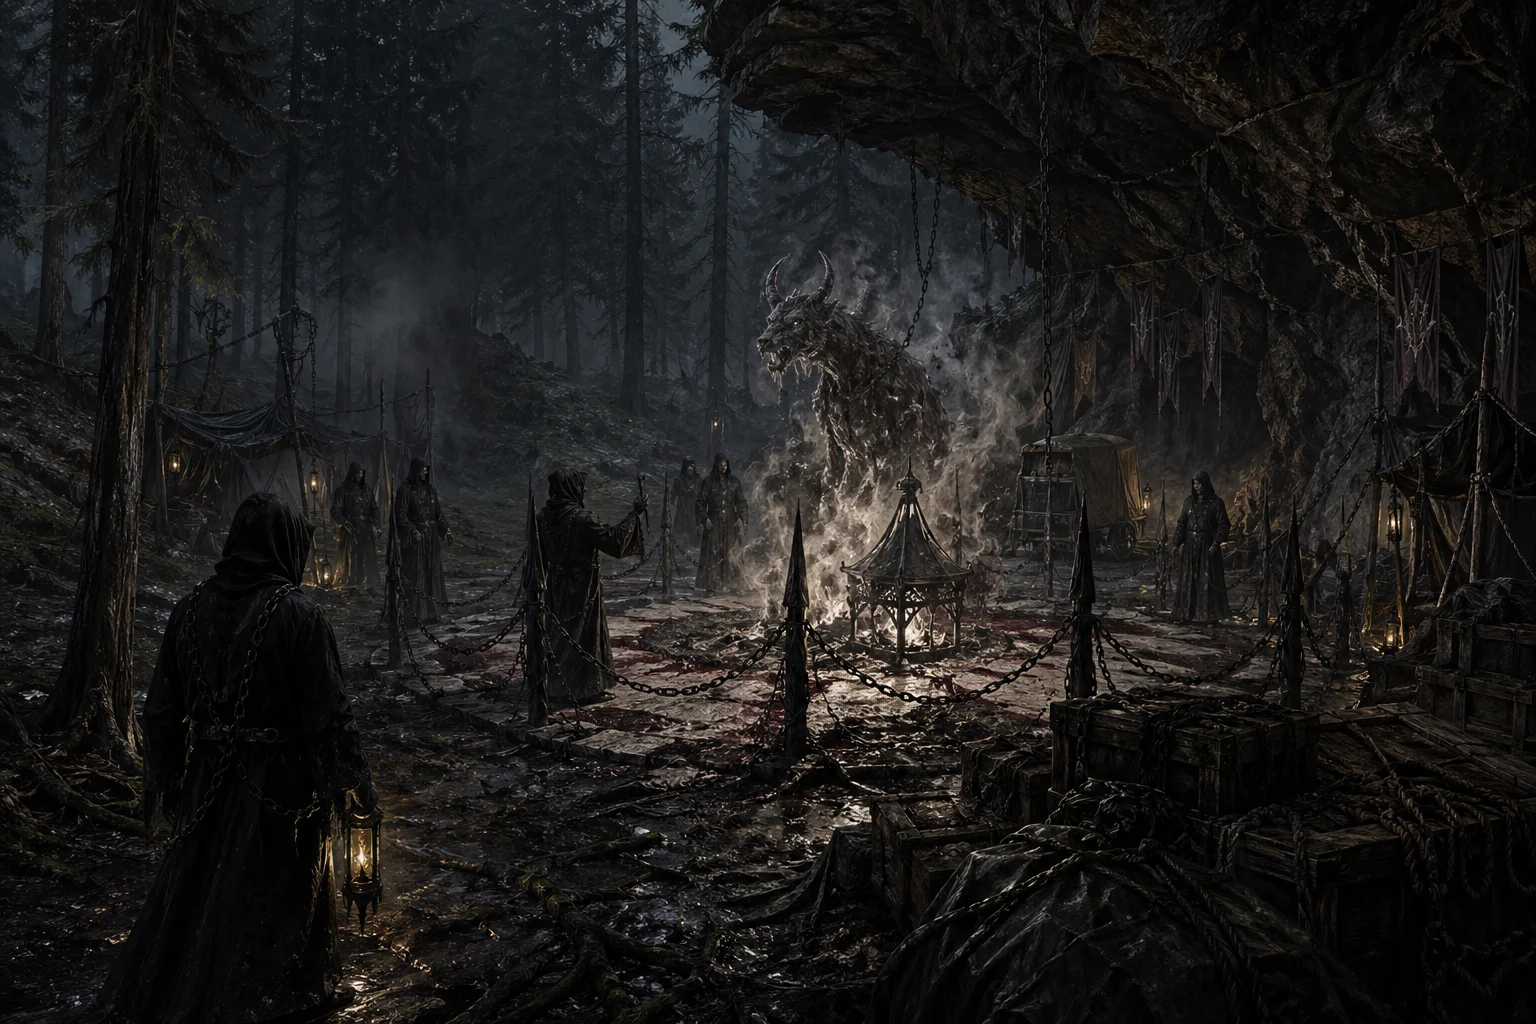
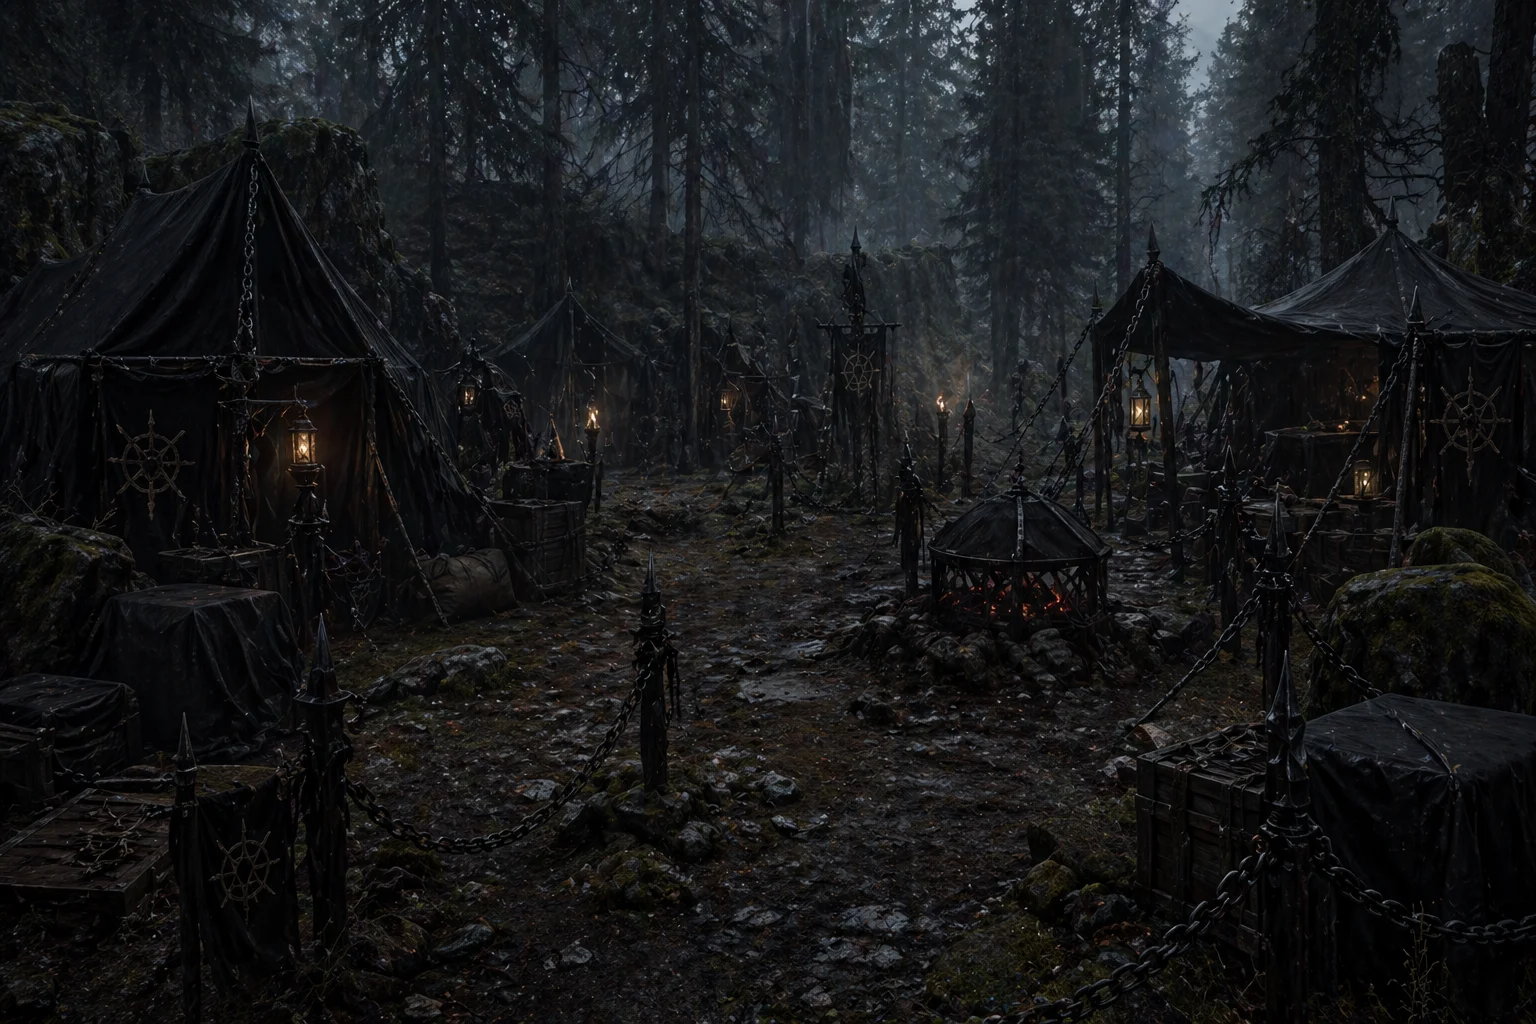
session 12 update post session

diff --git a/Sessions/S012 - Les mystères de la forêt/S012 - Les mystères de la forêt.md b/Sessions/S012 - Les mystères de la forêt/S012 - Les mystères de la forêt.md
@@ -6,7 +6,7 @@ code: S012
 date_irl: 2026-04-26
 fc-date: 16/06/42
 fc-end: 16/06/42
-resume: ""
+resume: Les PJ découvrent un camp de cultistes près d'une grotte où l'on entendait des voix. En fouillant, ils trouvent une caisse doublée destinée à contenir un objet rond, une carte montrant un itinéraire lié à Port Lointain et des robes/chaînes de cérémonie. Déguisés en cultistes/prisonniers, ils infiltrent la grotte ; le rituel d'invocation démarre mais est perturbé par un combat violent où Biscotte et Crunch attaquent, plusieurs cultistes sont tués, Lyra et Yoko sont grièvement blessés (stabilisés/soignés ensuite), et le collier attrapé par Biscotte est jeté dans le bassin (fait progresser le rituel). Grâce aux actions combinées, le rituel échoue et la manifestation (Minotaure/démon) se dissipe ; le groupe récupère équipements et indices laissant des pistes vers Port Lointain et un point côtier.
 pjs:
   - "[[Campagnes/EFG/PJ/Voss Vitriox.md|Voss Vitriox]]"
   - "[[Campagnes/EFG/PJ/Yoko.md|Yoko]]"
@@ -14,7 +14,7 @@ pjs:
   - "[[Campagnes/EFG/PJ/Lyra.md|Lyra]]"
   - "[[Campagnes/EFG/PJ/Fenn Brindebois.md|Fenn Brindebois]]"
 updated: 2026-04-26
-termine: false
+termine: true
 timelines:
   - session
 aat-render-enabled: true
@@ -54,96 +54,79 @@ LIMIT 1
 
 La référence est pour la session [[S007 - Piste au sud-ouest]] et ils cherchent à trouver les cultistes de [[Les Chaines d'Ombre]], sans savoir que leur campement n'est pas dans la forêt mais à l'ouest sur la côte à [[Tharumar]].
 
-## TODO
-
-- [ ] Préparer carte/battlemap du campement-relais
-- [ ] Préparer rencontre 1 : sentinelles / occultistes de lisière
-- [ ] Préparer rencontre 2 : rituel de réinvocation du [[Le limier d'Ether]]
-- [ ] Préparer notes, carte et ordre de transit vers [[Tharumar]]
-- [ ] Préparer questions/réponses si un cultiste est capturé
-- [ ] Préparer les statblocks PF2e des cultistes retenus
-- [ ] Préparer un statblock PNG d'influence
-
-Idées statblocks :
-- https://2e.aonprd.com/NPCs.aspx?ID=3532
-- https://2e.aonprd.com/NPCs.aspx?ID=3537
-- https://2e.aonprd.com/NPCs.aspx?ID=3535
-- https://2e.aonprd.com/NPCs.aspx?ID=3534
-
-## Beats
-
 ## Intro
 
 > Les dernières heures de marche ont laissé derrière vous les sentiers praticables et les bruits familiers des éclaireurs de [[Port-Lointain]]. Ici, la forêt du sud-ouest étouffe le vent sous ses branches noires et ses troncs serrés. L'odeur de résine humide se mêle à autre chose : la cendre froide, l'huile brûlée, et ce parfum sec de corde goudronnée qu'on n'attend pas si loin des quais.
 > Entre les arbres, une lueur basse filtre par à-coups. Pas un feu de bivouac franc, pas la chaleur d'un camp de chasseurs. Plutôt quelque chose de couvert, de contenu, de volontairement discret.
-> En avançant encore, vous distinguez enfin le camp : quelques tentes sombres, des caisses, des piquets noirs plantés en cercle, et des silhouettes en robe qui bougent sans parler plus haut qu'un murmure. Ce n'est pas un repaire de fortune. C'est un relais. Et quoi qu'ils fassent ici, ils ont déjà commencé.
+> Quelques tentes sombres sont dressées. Des caisses, des cordages, des bâches épaisses, un brasero couvert dont la chaleur ne se voit qu'à peine sont éparpillés. Le sol est marqué par des piquets noirs, des chaînes sombres et des traces de cendre. Rien n'a l'air laissé au hasard.
+> Au fond, derrière le campement, vous apercevez une paroi rocheuse avec l'entrée d'une grotte. Et surtout, il manque quelque chose. Personne ne bouge. Personne ne parle. Le camp est là, intact, mais vide.
 
-### Beat 1 — La lisière du camp
+## Beats
+### Beat 1 — Le camp désert
 
-**Objectif :** ouvrir vite, identifier le culte, lancer l'alerte.
+**Objectif :** arrivée, lecture du lieu, premiers indices.
 
-À l'entrée du campement, les PJ tombent sur une petite cellule avancée : sentinelles ou occultistes occupés à décharger du matériel, surveiller le couvert, ou transporter des seaux de cendres noires vers l'intérieur du camp.
+Les PJ arrivent devant le campement-relais des cultistes, mais il est désert. Tout indique pourtant une activité récente : le brasero est encore tiède, les tentes sont en place, les chaînes et piquets rituels n'ont pas été démontés, et plusieurs éléments logistiques montrent qu'un départ n'a eu lieu que très récemment.
 
-**Ce que les PJ voient tout de suite :**
-- des robes sombres sans emblème visible de loin ;
-- des chaînes noires portées comme marque de dévotion ;
-- des caisses légères, des cordages huilés, des couvertures épaisses pour emballer des objets fragiles ;
-- un calme discipliné, presque religieux.
+**Ce que les PJ peuvent inspecter tout de suite :**
+- les tentes sombres, austères et montées pour un séjour court ;
+- les caisses, bâches et cordages de transport ;
+- une caisse vide doublée de feutre ayant contenu un objet rond et précieux ;
+- les piquets noirs et chaînes sombres plantés entre le camp et les menhirs ;
+- des traces allant vers l'ouverture dans la roche.
 
-> Vous écartez les dernières branches basses et tombez sur une clairière étroite, artificiellement dégagée. Deux silhouettes encapuchonnées se tiennent près d'un tronc abattu, une troisième va et vient entre une caisse ouverte et un petit brasero couvert. Des chaînes noires pendent à leurs poignets et à leur ceinture, ternes, sans éclat. Tout ici semble pensé pour être démonté vite et sans laisser grand-chose derrière soi.
+> Vous avancez entre les tentes sans croiser âme qui vive. Le camp n'a rien d'abandonné depuis des jours ; au contraire, tout semble avoir été utilisé il y a peu. Les bâches sont encore tendues proprement, une caisse est restée ouverte, le brasero garde une chaleur sourde sous sa cendre, et le sol porte assez de passages pour dire qu'on travaillait ici encore récemment.
+> Entre les tentes et les menhirs, les piquets noirs et les chaînes sombres marquent une zone préparée avec soin. Plus loin, au pied de la paroi rocheuse, des traces de bottes, de cendre traînée et de matériel déplacé convergent toutes vers une ouverture sombre dans la pierre.
 
-**Dialogue possible si les cultistes repèrent les PJ :**
-- *"Qui va là ?"*
-- *"Reculez. Ce lieu n'est pas pour vous."*
-
-**Cri d'alerte si le combat tourne mal :**
-- *"Intrus ! Vite — terminez le rituel !"*
-- *"Achevez le lien ! Qu'il revienne avant qu'ils n'entrent !"*
-
-**Transition :** ce cri lance la pression. Les PJ entendent ensuite, plus loin dans le camp, des voix qui montent enfin au-dessus du murmure.
+**Ce que les PJ peuvent comprendre :**
+- le camp n'est pas un lieu de vie durable, mais un relais ;
+- un objet important a déjà quitté les lieux ;
+- le vrai cœur de l'activité n'était probablement pas dans la clairière ;
+- les cultistes sont ou étaient retranchés dans la roche derrière le camp.
 
 ---
 
-### Beat 2 — Le cœur du camp révélé
+### Beat 2 — La grotte du rituel
 
-**Objectif :** montrer clairement l'enjeu avant la grande rencontre.
+**Objectif :** confrontation principale de la soirée, avec possibilité de discussion avant le combat.
 
-Après la première escarmouche, les PJ débouchent sur le vrai centre du relais : une zone rituelle semi-cachée au fond de la clairière, à l'abri d'un surplomb rocheux ou de grands pins.
+Les indices du camp mènent à l'ouverture dans le promontoire rocheux. À l'intérieur, les PJ tombent rapidement sur les premiers cultistes, qui donnent l'alerte. Il n'y a pas de vraie séparation entre première escarmouche et rencontre principale : dès que les PJ pénètrent dans la grotte, tout s'enchaîne vers la salle rituelle.
+
+Les cultistes ne veulent pas interrompre le rituel, mais ils ne cherchent pas non plus à mourir inutilement. S'ils pensent pouvoir gagner du temps, intimider les PJ, négocier un repli ou détourner leur attention, ils essaieront de parler avant d'engager le combat.
 
 **Éléments de décor importants :**
+- un couloir de roche humide où la lumière meurt vite ;
+- des traces de cendre, de bottes et de chaînes traînées ;
+- une cavité principale transformée en salle rituelle ;
 - un cercle de cendre noire mélangée à du sang séché ;
-- des chaînes tendues entre des piquets noirs gravés ;
+- des chaînes tendues entre pitons, piquets ou pierres anciennes ;
 - un foyer couvert où rougeoient des braises blanches ;
-- des caisses déjà refermées ou vides, dont l'une porte encore l'empreinte d'un objet circulaire retiré récemment ;
-- des feuillets, tablettes ou planches de notes techniques et cultuelles.
+- des notes, tablettes et matériel rituel.
 
-> Le fond du camp s'ouvre sous un rideau de branches taillées. Là, le silence discipliné de la lisière laisse place à une tension plus nue. Un cercle de cendre a été tracé au sol, épais comme une tombe remuée. Des chaînes noires relient des piquets gravés à un brasero couvert, et dans la chaleur étouffée qui s'en dégage, la cendre semble parfois respirer.
-> Une caisse doublée de feutre repose ouverte sur une table basse. Son intérieur garde la marque nette d'un objet rond, lourd, déjà retiré. Tout autour, des silhouettes en robe noire s'activent enfin avec urgence.
+> Vous entrez dans la grotte. L'air y est plus lourd, chargé de fumée froide et d'une odeur de cendre rance. Plus loin, un éclat rougeâtre danse sur les parois, accompagné d'un cliquetis de chaîne et de voix basses récitant des prières.
+> Quand vous débouchez sur la cavité principale, le lieu ne laisse plus de doute. Les cultistes ont installé un rituel au cœur même de la roche : cendres noires au sol, chaînes tendues, braises rougeoiyantes, et au fond une sorte de portail brûlant.
 
-**Ce que les PJ peuvent comprendre avant d'agir :**
-- le camp n'est pas une base durable mais un relais temporaire ;
-- un objet important a déjà quitté les lieux ;
-- les cultistes sont en train de tenter de refaire venir quelque chose à partir des cendres.
+**Ce qui se passe ici :**
+- les premiers cultistes rencontrés dans la grotte donnent l'alerte ;
+- le timer du rituel peut démarrer à partir de ce moment-là ;
+- toute la rencontre se joue sur la même battlemap / même zone de grotte ;
+- les cultistes cherchent à **réinvoquer / reforger** le lien démoniaque du [[Le limier d'Ether]].
 
-**Dialogue possible des officiants :**
-- *"Le passage vers [[Tharumar]] est déjà en route. Tenez le lien."*
-- *"Sans limier, la piste redevient aveugle. Continuez."*
-- *"Ne laissez pas les cendres refroidir."*
-
----
-
-### Beat 3 — Rencontre principale : le rituel du limier
-
-**Objectif :** affrontement central de la soirée.
-
-Les PJ interviennent pendant que les officiants cherchent à **réinvoquer / reforger** le lien démoniaque du [[Le limier d'Ether]].
+**Ouverture sociale possible :**
+- les cultistes ordonnent d'abord aux PJ de partir ;
+- ils peuvent prétendre protéger un lieu sacré, ou n'être que de simples pèlerins ;
+- ils peuvent proposer aux PJ de reculer et d'oublier ce qu'ils ont vu ;
+- pendant qu'ils parlent, ils cherchent surtout à gagner du temps pour le rituel.
 
 **Intentions des cultistes :**
+- gagner du temps si la parole peut suffire ;
 - achever le rituel ;
 - protéger les notes et les repères de piste ;
 - si besoin, fuir avec ce qui reste exploitable vers la côte.
 
 **Actions possibles des PJ :**
+- tenter d'ouvrir un dialogue ;
+- bluffer, menacer ou diviser les cultistes ;
 - foncer sur les officiants ;
 - briser le cercle ou les piquets ;
 - disperser les cendres ;
@@ -153,10 +136,26 @@ Les PJ interviennent pendant que les officiants cherchent à **réinvoquer / ref
 > Les officiants lèvent enfin la voix. Leurs mots ne ressemblent pas à un chant, mais à une suite d'ordres murmurés à quelque chose qui hésite encore à obéir. Dans le cercle, les cendres s'amassent, retombent, puis se soulèvent à nouveau comme sous un souffle qui n'appartient à personne. Une odeur de métal chauffé et de chair brûlée vous prend à la gorge.
 > Au centre, la forme n'est pas encore un corps. Seulement une promesse de cornes, de braise et de colère tenue ensemble par la chaîne, la volonté et la peur.
 
+**Répliques possibles au moment de l'alerte :**
+- *"Intrus. Restez où vous êtes."*
+- *"Encore un pas et vous mourrez pour une chose que vous ne comprenez pas."*
+- *"Terminez le rituel. Je les retiens."*
+
 **Répliques possibles de l'officiant principal :**
+- *"Vous n'avez rien vu. Faites demi-tour, et vous sortirez vivants."*
+- *"Ce lieu ne vous concerne pas. Partez maintenant."*
+- *"Vous croyez interrompre un crime ; vous ne faites que retarder une nécessité."*
 - *"Le premier lien a été brisé ; nous le forgeons de nouveau."*
 - *"Vous avez retardé l'œuvre, rien de plus."*
+- *"Le passage vers [[Tharumar]] est déjà en route. Tenez le lien."*
+- *"Sans limier, la piste redevient aveugle. Continuez."*
 - *"Tenez-les ! Même incomplet, il suffira !"*
+
+**Déclencheurs de combat évidents :**
+- les PJ avancent vers le cercle ;
+- les PJ touchent aux cendres, aux notes ou aux piquets ;
+- les PJ refusent de reculer après sommation ;
+- les cultistes estiment avoir assez gagné de temps.
 
 **Si le rituel dérape ou s'achève partiellement :**
 - *"Non… pas ainsi… maintenez-le !"*
@@ -164,13 +163,14 @@ Les PJ interviennent pendant que les officiants cherchent à **réinvoquer / ref
 
 ---
 
-### Beat 4 — Le camp après le sang
+### Beat 3 — Fouille finale / interrogatoire
 
-**Objectif :** laisser souffler, fouiller, comprendre.
+**Objectif :** révélation finale et crochet vers la suite.
 
-Une fois le combat terminé ou le rituel interrompu, le camp devient une scène d'investigation rapide. Les PJ peuvent fouiller, lire, comparer les éléments, et éventuellement sécuriser un prisonnier.
+Une fois les cultistes vaincus ou dispersés, les PJ peuvent fouiller le camp, fouiller la grotte, lire les notes, et interroger un survivant. C'est ici qu'ils comprennent que ce site n'était qu'un relais secondaire et que l'élément le plus important a déjà quitté les lieux.
 
-> Quand les derniers cris retombent, il ne reste plus dans la clairière que le grésillement du brasero couvert, le tintement léger des chaînes agitées par le vent, et cette odeur de cendre mouillée qui colle aux vêtements. Maintenant que plus personne ne protège l'ordre du camp, son sens apparaît mieux : rien ici n'était fait pour durer, tout était fait pour passer, transporter, réveiller, puis disparaître.
+> Quand le vacarme retombe, il ne reste plus que le souffle des braises, l'odeur de pierre humide et de cendre brûlée, et ce léger tintement des chaînes quand quelqu'un bouge encore. Entre le camp vide dehors et la grotte profanée derrière, l'ensemble prend enfin sens : ici, rien n'était fait pour durer. Seulement pour cacher, attendre, puis repartir.
+> Et ce qu'ils gardaient vraiment n'est déjà plus là.
 
 **Éléments à mettre sous leurs yeux :**
 - une carte ou un croquis côtier incomplet ;
@@ -179,14 +179,6 @@ Une fois le combat terminé ou le rituel interrompu, le camp devient une scène 
 - des repères de piste, listes de matériel, comptes de jours ;
 - une prière / doctrine sur l'obéissance et le lien.
 
----
-
-### Beat 5 — Interrogatoire et cliffhanger vers [[Tharumar]]
-
-**Objectif :** finir la soirée sur une révélation exploitable pour une prochaine session.
-
-Si les PJ capturent un cultiste vivant, ils peuvent obtenir le nom du culte, la nature du relais, et surtout l'information que l'objet important a déjà été expédié vers [[Tharumar]], où plusieurs pièces anciennes sont en cours d'assemblage.
-
 > Le prisonnier garde le silence tant qu'il le peut, lèvres serrées, regard fixe, comme s'il attendait un ordre qui ne viendra plus. Mais autour de lui, le camp parle déjà presque autant que lui : la caisse vide, les notes tachées, les repères de route, la cendre encore tiède.
 > Lorsqu'il cède enfin, ce n'est pas par peur seule. C'est par rage froide d'avoir été interrompu si près du but.
 
@@ -194,7 +186,7 @@ Si les PJ capturent un cultiste vivant, ils peuvent obtenir le nom du culte, la 
 - *"Ce camp n'est rien. Une halte. Un seuil."*
 - *"Vous êtes en retard. Ce qui comptait a déjà pris la route."*
 - *"À [[Tharumar]], les pièces seront unies. Ici, nous ne faisions que garder le passage et refaire venir le limier."*
-- *"Nous sommes les [[Les Chaines d'Ombre]]. Vous ne connaissez encore que nos traces."*
+- *"Nous sommes [[Les Chaines d'Ombre]]. Vous ne connaissez encore que nos traces."*
 
 **Cliffhanger conseillé :**
 Le prisonnier, la carte, ou l'ordre de transit confirment tous la même chose : un **artefact plus grand** est en cours d'assemblage à [[Tharumar]] à partir de plusieurs composants anciens, et les PJ ne viennent d'interrompre qu'un relais secondaire du plan.
@@ -238,3 +230,13 @@ Le prisonnier, la carte, ou l'ordre de transit confirment tous la même chose : 
 - Déterminer ce qu'est exactement la “lentille gravée” et son lien avec l'artefact en cours d'assemblage
 - Conséquences si un cultiste capturé parle au [[Conseil de la Brèche]] ou au [[Commandant Aelys Tarn]]
 - Déterminer si le rituel a été complètement stoppé, partiellement réussi, ou seulement retardé
+
+## Suivi par PJ (rapide)
+
+| PJ                     | Faction                    | Conditions | Notes          |
+| ---------------------- | :------------------------- | ---------- | -------------- |
+| [[Fenn Brindebois]]    | [[Royaume d'Halvorn]]      | -          | -              |
+| [[Lyra]]               | [[République de Thaldris]] | -          | 15pv, blessé 2 |
+| [[Théobald Greyheart]] | [[Ligue de Veyra]]         | -          | 15pv           |
+| [[Voss Vitriox]]       | [[Ligue de Veyra]]         | -          | 5pv            |
+| [[Yoko]]               | [[Royaume d'Halvorn]]      | -          | 5pv, blessé 2  |
